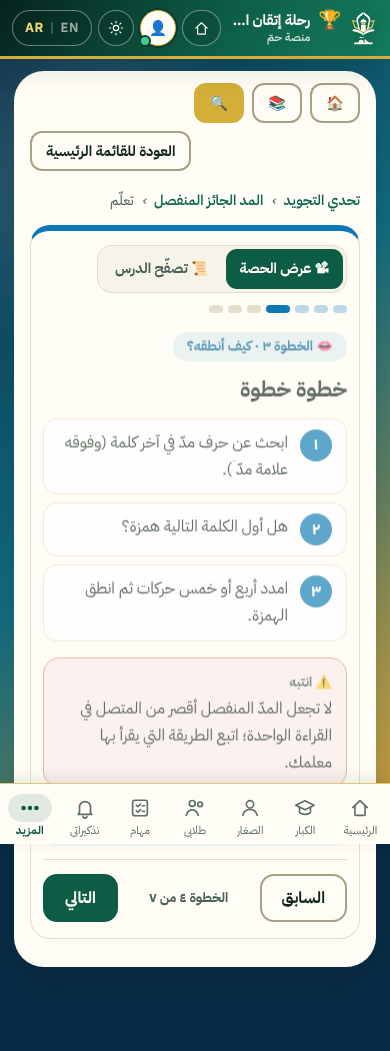
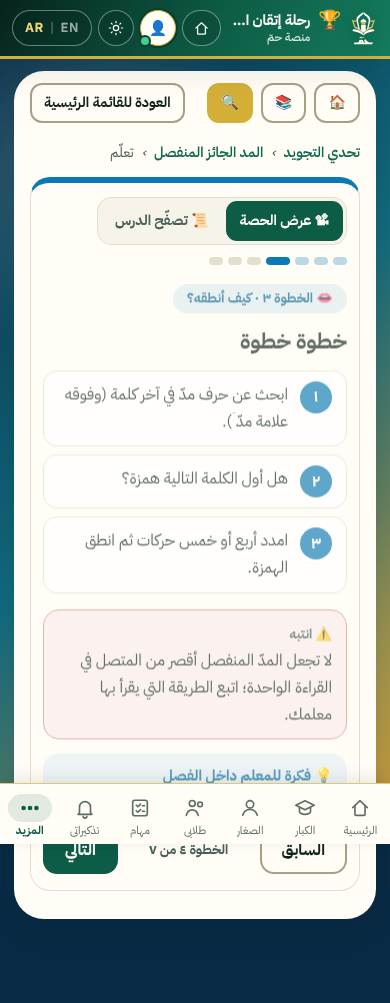
ركن التجويد: رئيسية بالمستويات السبعة وزر «ابدأ الشرح» (الإصدار 1.0.73)
- سبعة مستويات بالترتيب: مصحفي (٣ محطات) ← القلقلة ← الغنّة ← التفخيم والترقيق ← الحرف الساكن
  ← المخارج والصفات ← المدّ والوقف؛ يظهر مستوى واحد في كل مرة.
- بطاقة «الدرس التالي» بزر «ابدأ الشرح» يفتح الدرس المصوّر مباشرة، ولكل درس زرّا «الشرح» و«تدريب».
- تحدي المحطة عام لأي محطة. فحوص verify وe2e محدّثة.

Claude-Session: https://claude.ai/code/session_011ARApJWwWujCV3ZFD8GbRF

Changed region(s): [[0.0, 0.0, 1.0, 0.6181], [0.0, 0.6181, 1.0, 0.9272], [0.1538, 0.3709, 0.4923, 0.4327]]

diff --git a/tajweed/challenge/js/app.js b/tajweed/challenge/js/app.js
@@ -1,6 +1,6 @@
 // js/app.js — الموجه والشاشات: الرئيسية، الحكم، الدرس، اللعب، النتيجة، المصادر.
 import { POOL } from '../data/pool.js';
-import { STAGES, RULES, META, SOURCES, stageOf } from '../data/rules.js';
+import { STAGES, RULES, META, SOURCES, stageOf, GROUPS } from '../data/rules.js';
 import { MUSHAF, LESSON_IMG, signImg } from '../data/mushaf.js';
 import { buildMushafLevel, buildMushafStage, mushafMixedQuestion } from './mushaf-engine.js';
 import { initMushaf } from './mushaf.js';
@@ -50,60 +50,80 @@ const crumb = (items) => `<nav class="crumb" aria-label="breadcrumb">${items.map
 const stageStyle = (st) => `style="--hue:var(--h-${st.hue})"`;
 
 // ───────── الرئيسية ─────────
+// المستوى المعروض في الرئيسية (يُحفظ على الجهاز؛ الافتراضي: مستوى الخطوة التالية)
+const LV_KEY = 'tjc.level';
+let homeLevel = (() => { try { return localStorage.getItem(LV_KEY) || ''; } catch { return ''; } })();
+const setHomeLevel = (id) => { homeLevel = id; try { localStorage.setItem(LV_KEY, id); } catch { /* لا تخزين */ } };
+const lessonPlate = (id) => (KNOW[id] ? `<span class="lr-plate">${art(KNOW[id].art)}</span>` : MUSHAF[id] ? `<span class="lr-plate"><img src="${esc(signImg(LESSON_IMG[id]))}" alt=""></span>` : `<span class="lr-plate"><b class="quran-text">${esc(tx(META[id].short))}</b></span>`);
+
 function renderHome() {
   const tot = store.totals(ALL_RULES);
   const pct = Math.round((tot.got / tot.max) * 100);
   const nxt = nextStep();
-  const started = tot.got > 0 || ALL_RULES.some((id) => store.getRule(id).learned);
   const R = 52, C = 2 * Math.PI * R;
-  const stagesHTML = STAGES.map((st, si) => {
+  const nxtStage = nxt.rule ? stageOf(nxt.rule) : null;
+  if (!GROUPS.some((g) => g.id === homeLevel)) homeLevel = nxtStage ? nxtStage.level : GROUPS[0].id;
+  const groupRules = (g) => STAGES.filter((st) => st.level === g.id).flatMap((st) => st.rules);
+  // شريط المستويات
+  const strip = GROUPS.map((g, gi) => {
+    const ids = groupRules(g); const done = ids.filter((id) => store.getRule(id).lv[3] >= 1).length;
+    const here = nxtStage && nxtStage.level === g.id;
+    return `<button type="button" class="lv-btn${g.id === homeLevel ? ' on' : ''}" data-level="${g.id}" aria-pressed="${g.id === homeLevel}">
+      ${here ? `<em class="lv-here">${t('path_here')}</em>` : ''}<span class="lv-ico" aria-hidden="true">${g.icon}</span><small>${t('lv_n', { n: num(gi + 1) })}</small><b>${esc(tx(g.name))}</b>
+      <span class="lv-prog"><i style="width:${Math.round((done / ids.length) * 100)}%"></i></span><small>${num(done)}/${num(ids.length)}</small></button>`;
+  }).join('');
+  // محطات المستوى المختار
+  const stagesHTML = STAGES.filter((st) => st.level === homeLevel).map((st) => {
+    const si = STAGES.indexOf(st);
     const got = st.rules.reduce((a, id) => a + ruleProgress(id), 0), max = st.rules.length * 9;
     const mastered = st.rules.filter((id) => store.getRule(id).lv[3] >= 1).length;
     const unlockedChallenge = isReview() || st.rules.some((id) => store.getRule(id).lv[1] >= 1);
-    const stStars = store.getStageStars(st.id);
+    const rows = st.rules.map((id) => {
+      const r = store.getRule(id); const isNext = nxt.rule === id;
+      return `<li class="lrow${isNext ? ' is-next' : ''}">
+        <a class="lr-main" href="#/learn/${id}">${lessonPlate(id)}<span class="lr-tx"><b>${esc(ruleName(id))}</b><small>${esc(tx(META[id].tagline))}</small></span>${isNext ? `<em class="lr-next">${t('lr_next')}</em>` : ''}${starsHTML(Math.max(r.lv[1] || 0, r.lv[2] || 0, r.lv[3] || 0))}</a>
+        <span class="lr-acts"><a class="btn ${isNext ? 'primary' : 'ghost'} sm" href="#/learn/${id}">📖 ${t('lr_learn')}</a><a class="btn ghost sm" href="#/rule/${id}" title="${esc(t('lr_train'))}">🎮 <span>${t('lr_train')}</span></a></span></li>`;
+    }).join('');
     return `
-    <article class="stage${st.id === 'mushaf' ? ' mushaf-stage' : ''}" ${stageStyle(st)}>
+    <article class="stage" ${stageStyle(st)}>
       <header class="stage-head">
         <span class="stage-ico" aria-hidden="true">${STAGE_ICONS[st.icon]}</span>
         <div class="stage-title"><small>${t('stage_n', { n: num(si + 1) })}</small><h3>${esc(tx(st.name))}</h3><p>${esc(tx(st.blurb))}</p></div>
         <div class="stage-prog" aria-label="${got}/${max}"><b>${num(mastered)}/${num(st.rules.length)}</b><small>${t('home_mastered')}</small><div class="pbar"><i style="width:${Math.round((got / max) * 100)}%"></i></div></div>
       </header>
-      ${st.id === 'mushaf' ? `<ul class="tiles">${st.rules.map((id) => { const r = store.getRule(id); return `<li><a class="tile" href="#/rule/${id}"><span class="plate">${KNOW[id] ? `<span class="plate-art">${art(KNOW[id].art)}</span>` : `<img class="plate-img" src="${esc(signImg(LESSON_IMG[id]))}" alt="">`}</span><b>${esc(ruleName(id))}</b>${r.learned ? '' : '<em class="new">●</em>'}${starsHTML(Math.max(r.lv[1] || 0, r.lv[2] || 0, r.lv[3] || 0))}</a></li>`; }).join('')}</ul>` : `<ul class="rule-list">${st.rules.map((id) => {
-        const r = store.getRule(id);
-        return `<li><a class="rule-row" href="#/rule/${id}"><span class="rr-main"><b>${esc(ruleName(id))}</b><small class="quran-text rr-short">${esc(tx(META[id].short))}</small></span><span class="rr-state">${r.learned ? '' : '<em class="new">●</em>'}${starsHTML(Math.max(...[r.lv[1] || 0, r.lv[2] || 0, r.lv[3] || 0]))}</span></a></li>`;
-      }).join('')}</ul>`}
+      <ul class="lrows">${rows}</ul>
       <footer class="stage-foot">
-        ${st.id === 'mushaf' ? `<a class="btn ghost" href="#/explorer">🔎 ${t('mk_explorer')}</a>` : ''}
         <a class="btn ghost" href="#/review/${st.id}">🗺 ${t('rv_btn')}</a>
-        <button type="button" class="btn ${unlockedChallenge ? 'accent' : 'disabled'}" data-stage="${st.id}" ${unlockedChallenge ? '' : 'disabled'}>🏁 ${t('stage_challenge')} ${starsHTML(stStars)}</button>
-        ${unlockedChallenge ? '' : `<small>${t('stage_challenge_locked')}</small>`}
+        <button type="button" class="btn ${unlockedChallenge ? 'accent' : 'disabled'}" data-stage="${st.id}" ${unlockedChallenge ? '' : 'disabled'}>🏁 ${t('stage_challenge')} ${starsHTML(store.getStageStars(st.id))}</button>
+        ${st.level === 'l_mushaf' && st.id === 'mushaf_signs' ? `<a class="btn ghost" href="#/explorer">🔎 ${t('mk_explorer')}</a>` : ''}
       </footer>
     </article>`;
   }).join('');
+  const nr = nxt.rule; const learnHash = nr ? `#/learn/${nr}` : '#/mixed'; const trainHash = nr ? (nxt.hash.startsWith('#/play') ? nxt.hash : `#/rule/${nr}`) : '#/mixed';
   shell(`
-    <section class="hero">
+    <section class="hero home-next">
       <div class="hero-text">
         <h1>${student ? t('home_hello_name', { name: esc(student.name) }) : t('home_hello')}</h1>
-        <p class="lead">${t('home_lead', { n: num(STAGES.length) })}</p>
+        ${nr ? `<div class="next-card" ${stageStyle(nxtStage)}>${lessonPlate(nr)}<div><small>${t('next_k')} · ${esc(tx(nxtStage.name))}</small><b>${esc(ruleName(nr))}</b><small class="muted">${esc(nxt.label)}</small></div></div>` : `<p class="lead">${t('home_mixed_desc')}</p>`}
         <div class="hero-cta">
-          <a class="btn primary big" href="${nxt.hash}">${started ? t('home_continue') : t('home_start')} <span class="arr" aria-hidden="true"></span></a>
-          ${nxt.rule ? `<small class="muted">${esc(ruleName(nxt.rule))} · ${esc(nxt.label)}</small>` : ''}
+          <a class="btn primary big" href="${learnHash}">📖 ${nr ? t('lr_start_learn') : t('home_mixed')} <span class="arr" aria-hidden="true"></span></a>
+          ${nr ? `<a class="btn ghost" href="${trainHash}">🎮 ${t('lr_train')}</a>` : ''}
         </div>
       </div>
       <div class="hero-ring" role="img" aria-label="${t('home_progress')} ${pct}%">
         <svg viewBox="0 0 130 130"><circle class="ring-bg" cx="65" cy="65" r="${R}"/><circle class="ring-fg" cx="65" cy="65" r="${R}" stroke-dasharray="${C}" stroke-dashoffset="${C * (1 - pct / 100)}"/></svg>
-        <div class="ring-txt"><b>${num(tot.got)}</b><small>${t('home_progress')} ★</small><small>${num(tot.mastered)} / ${num(ALL_RULES.length)} ${t('home_mastered')}</small></div>
+        <div class="ring-txt"><b>${num(tot.mastered)}/${num(ALL_RULES.length)}</b><small>${t('home_mastered')}</small><small>${num(tot.got)} ★</small></div>
       </div>
     </section>
     ${isReview() ? `<p class="review-banner">${t('review_mode_on')}</p>` : ''}
-    <h2 class="sec-title">${t('path_title')}</h2>
-    <div class="stages">${stagesHTML}</div>
+    <nav class="lv-strip" aria-label="${esc(t('path_title'))}">${strip}</nav>
+    <div class="stages lv-stages">${stagesHTML}</div>
     <section class="mixed">
       <div><h3>🎯 ${t('home_mixed')}</h3><p>${t('home_mixed_desc')}</p></div>
       <a class="btn accent" href="#/mixed">${t('start')} ${starsHTML(store.getMixed())}</a>
-    </section>
-    <p class="muted center small">${t('data_version', { n: num(Object.keys(POOL).length) })}</p>`);
+    </section>`);
   root.querySelectorAll('[data-stage]').forEach((b) => b.addEventListener('click', () => go(`#/stage/${b.dataset.stage}`)));
+  root.querySelectorAll('[data-level]').forEach((b) => b.addEventListener('click', () => { setHomeLevel(b.dataset.level); const y = window.scrollY; renderHome(); window.scrollTo({ top: y }); }));
 }
 
 // ───────── صفحة الحكم ─────────
@@ -262,8 +282,10 @@ function playRun(kind, ruleId, level, stageId) {
   else if (kind === 'stage') {
     // تحدي المحطة: أحكام المحطة (من الكاشف) + أسئلة دروس المعرفة فيها
     const sObj = STAGES.find((s) => s.id === stageId); const rr = rng(Date.now()); const know = sObj.rules.filter((id) => KNOW[id]); const hasRules = sObj.rules.some((id) => RULES[id]);
-    const base = stageId === 'mushaf' ? buildMushafStage() : hasRules ? buildStageChallenge(stageId) : [];
-    const extra = []; const want = Math.max(know.length ? 2 : 0, 8 - base.length); for (let k = 0; know.length && k < want; k++) extra.push(knowQuestion(know[k % know.length], rr));
+    const mush = sObj.rules.filter((id) => MUSHAF[id]);
+    const base = hasRules ? buildStageChallenge(stageId) : [];
+    const side = [...mush, ...know]; const extra = []; const want = Math.max(side.length ? Math.min(8, side.length * 2) : 0, 8 - base.length);
+    for (let k = 0; side.length && k < want; k++) { const id = side[k % side.length]; extra.push(MUSHAF[id] ? mushafMixedQuestion(id, rr) : knowQuestion(id, rr)); }
     qs = shuffle([...base, ...extra], rr).slice(0, 8); head = `<b>${esc(tx(sObj.name))}</b> · ${t('stage_challenge')}`;
   }
   else { const learned = ALL_RULES.filter((id) => store.getRule(id).learned); const pool = learned.length >= 2 ? learned : ALL_RULES; const tajweed = pool.filter((id) => RULES[id]); const mush = pool.filter((id) => MUSHAF[id]); const know = pool.filter((id) => KNOW[id]); const rr = rng(Date.now());

diff --git a/tajweed/challenge/data/rules.js b/tajweed/challenge/data/rules.js
@@ -78,23 +78,37 @@ export const L_SHAMSI = ['ط', 'ث', 'ص', 'ر', 'ت', 'ض', 'ذ', 'ن', 'د', '
 
 // ترتيب المراحل المقترح: من الأبسط (صوتان) ← ثلاثة أحكام للميم ← النون (٥) ← لام «ال» ← المدود
 export const STAGES = [
-  { id: 'mushaf', hue: 'teal', icon: 'book', name: T('تعرّف على مصحفك', 'Know Your Mushaf'), blurb: T('أرقام الآيات، الجزء والحزب، الحركات والتنوين، الألف والهمزة، علامات الوقف والسكون والمدّ والسجدة', 'Ayah numbers, juz and hizb, vowel marks and tanween, alif and hamza, and the signs of stopping, sukun, madd and sajdah'), rules: ['mushaf_adab', 'mushaf_ayah_number', 'mushaf_surahs', 'mushaf_juz_hizb', 'mushaf_find', 'mushaf_harakat', 'mushaf_hamza', 'mushaf_waqf', 'mushaf_silent_sukun', 'mushaf_madd_letters', 'mushaf_special', 'mushaf_sin_saad', 'mushaf_sajda'] },
-  { id: 'makharij', hue: 'sky', icon: 'mouth', name: T('المخارج والصفات', 'Articulation & Qualities'), blurb: T('من أين يخرج كل حرف؟ وما الحروف الهامسة والثقيلة والنطّاطة؟', 'Where does each letter come from? Which letters whisper, which are heavy, which bounce?'), rules: ['know_makharij', 'know_sifat'] },
-  { id: 'sounds', hue: 'violet', icon: 'wave', name: T('الغنّة والقلقلة', 'Ghunna & Qalqalah'), blurb: T('صوتان يميّزان تلاوتك: رنين الأنف وقفزة الحرف', 'Two sounds that colour your recitation: the nasal hum and the letter’s bounce'), rules: ['ghunna', 'qalqalah'] },
-  { id: 'meem', hue: 'rose', icon: 'lips', name: T('الميم الساكنة', 'Meem Sakinah'), blurb: T('ثلاثة أحكام للميم الساكنة (مْ)', 'Three rulings for the silent meem (مْ)'), rules: ['meem_ikhfa', 'meem_idgham', 'meem_izhar'] },
-  { id: 'noon', hue: 'emerald', icon: 'noon', name: T('النون الساكنة والتنوين', 'Noon Sakinah & Tanween'), blurb: T('خمس صور: إظهار، إدغام بغنة، إدغام بلا غنة، إقلاب، إخفاء', 'Five forms: izhar, idgham with/without ghunna, iqlab, ikhfa'), rules: ['noon_izhar', 'noon_idgham_ghunna', 'noon_idgham_no_ghunna', 'noon_iqlab', 'noon_ikhfa'] },
-  { id: 'lam', hue: 'amber', icon: 'sun', name: T('لام «أل»', 'The Lam of “Al”'), blurb: T('قمرية تظهر وشمسية تختفي', 'Moon letters show, sun letters hide'), rules: ['lam_qamari', 'lam_shamsi'] },
-  { id: 'idgham', hue: 'rose', icon: 'merge', name: T('المثلان والمتجانسان والمتقاربان', 'Identical, Related & Neighbouring Letters'), blurb: T('حرفان يلتقيان فيصيران حرفًا مشدّدًا واحدًا', 'Two letters meet and become one doubled letter'), rules: ['mithlain', 'mutajanisain', 'mutaqaribain'] },
-  { id: 'tafkhim', hue: 'amber', icon: 'weight', name: T('التفخيم والترقيق', 'Heavy & Light Letters'), blurb: T('الراء ولام لفظ الجلالة: متى تكون سمينة ومتى نحيفة؟', 'The raa and the lam of “Allah”: when heavy, when light?'), rules: ['ra_tafkhim', 'ra_tarqiq', 'lam_jalala_tafkhim', 'lam_jalala_tarqiq'] },
-  { id: 'madd', hue: 'sky', icon: 'madd', name: T('المدود', 'Maddat (Elongation)'), blurb: T('المد الطبيعي والمتصل والمنفصل', 'Natural, connected and separated elongation'), rules: ['madd_tabii', 'madd_muttasil', 'madd_munfasil'] },
-  { id: 'madd2', hue: 'teal', icon: 'madd', name: T('مدود أخرى', 'More Maddat'), blurb: T('العارض للسكون واللين والبدل واللازم', 'ʿArid, leen, badal and lazim'), rules: ['madd_aridh', 'madd_leen', 'madd_badal', 'madd_lazim'] },
-  { id: 'waqf', hue: 'violet', icon: 'stop', name: T('الوقف على أواخر الكلمات', 'Stopping at Word Ends'), blurb: T('كيف ننطق آخر الكلمة إذا وقفنا عليها؟', 'How do we say the end of a word when we stop on it?'), rules: ['know_waqf'] }
+  { id: 'mushaf', level: 'l_mushaf', hue: 'teal', icon: 'book', name: T('أتعرّف على مصحفي', 'Meet My Mushaf'), blurb: T('الآداب، رقم الآية، السور، الأجزاء، كيف أجد الآية، والسجدة', 'Manners, ayah numbers, surahs, juz, finding an ayah, and sajdah'), rules: ['mushaf_adab', 'mushaf_ayah_number', 'mushaf_surahs', 'mushaf_juz_hizb', 'mushaf_find', 'mushaf_sajda'] },
+  { id: 'mushaf_marks', level: 'l_mushaf', hue: 'sky', icon: 'book', name: T('حركات الحروف وعلاماتها', 'Vowels and Letter Marks'), blurb: T('الحركات والتنوين، الهمزة، السكون والحروف الصامتة، والحروف الصغيرة', 'Vowels and tanween, hamza, sukun and silent letters, small letters'), rules: ['mushaf_harakat', 'mushaf_hamza', 'mushaf_silent_sukun', 'mushaf_madd_letters'] },
+  { id: 'mushaf_signs', level: 'l_mushaf', hue: 'violet', icon: 'stop', name: T('علامات الوقف والعلامات النادرة', 'Stop Signs and Rare Marks'), blurb: T('علامات الوقف، السين مكان الصاد، وعلامتان نادرتان', 'Stop signs, seen in place of saad, and two rare marks'), rules: ['mushaf_waqf', 'mushaf_sin_saad', 'mushaf_special'] },
+  { id: 'qalqalah_s', level: 'l_qalqalah', hue: 'sky', icon: 'wave', name: T('القلقلة', 'Qalqalah'), blurb: T('الحروف النطّاطة «قطب جد»', 'The bouncing letters «قطب جد»'), rules: ['qalqalah'] },
+  { id: 'ghunna_s', level: 'l_ghunna', hue: 'violet', icon: 'wave', name: T('الغنّة', 'Ghunna'), blurb: T('النون والميم المشدّدتان: رنين من الأنف', 'Doubled noon and meem: a hum from the nose'), rules: ['ghunna'] },
+  { id: 'tafkhim', level: 'l_tafkhim', hue: 'amber', icon: 'weight', name: T('التفخيم والترقيق', 'Heavy & Light Letters'), blurb: T('الراء ولام لفظ الجلالة: متى تكون سمينة ومتى نحيفة؟', 'The raa and the lam of “Allah”: when heavy, when light?'), rules: ['ra_tafkhim', 'ra_tarqiq', 'lam_jalala_tafkhim', 'lam_jalala_tarqiq'] },
+  { id: 'meem', level: 'l_sakin', hue: 'rose', icon: 'lips', name: T('الميم الساكنة', 'Meem Sakinah'), blurb: T('ثلاثة أحكام للميم الساكنة (مْ)', 'Three rulings for the silent meem (مْ)'), rules: ['meem_ikhfa', 'meem_idgham', 'meem_izhar'] },
+  { id: 'noon', level: 'l_sakin', hue: 'emerald', icon: 'noon', name: T('النون الساكنة والتنوين', 'Noon Sakinah & Tanween'), blurb: T('خمس صور: إظهار، إدغام بغنة، إدغام بلا غنة، إقلاب، إخفاء', 'Five forms: izhar, idgham with/without ghunna, iqlab, ikhfa'), rules: ['noon_izhar', 'noon_idgham_ghunna', 'noon_idgham_no_ghunna', 'noon_iqlab', 'noon_ikhfa'] },
+  { id: 'lam', level: 'l_sakin', hue: 'amber', icon: 'sun', name: T('لام «أل»', 'The Lam of “Al”'), blurb: T('قمرية تظهر وشمسية تختفي', 'Moon letters show, sun letters hide'), rules: ['lam_qamari', 'lam_shamsi'] },
+  { id: 'idgham', level: 'l_sakin', hue: 'rose', icon: 'merge', name: T('المثلان والمتجانسان والمتقاربان', 'Identical, Related & Neighbouring Letters'), blurb: T('حرفان يلتقيان فيصيران حرفًا مشدّدًا واحدًا', 'Two letters meet and become one doubled letter'), rules: ['mithlain', 'mutajanisain', 'mutaqaribain'] },
+  { id: 'makharij', level: 'l_makharij', hue: 'sky', icon: 'mouth', name: T('المخارج والصفات', 'Articulation & Qualities'), blurb: T('من أين يخرج كل حرف؟ وما الحروف الهامسة والثقيلة والنطّاطة؟', 'Where does each letter come from? Which letters whisper, which are heavy, which bounce?'), rules: ['know_makharij', 'know_sifat'] },
+  { id: 'madd', level: 'l_madd', hue: 'sky', icon: 'madd', name: T('المدود', 'Maddat (Elongation)'), blurb: T('المد الطبيعي والمتصل والمنفصل', 'Natural, connected and separated elongation'), rules: ['madd_tabii', 'madd_muttasil', 'madd_munfasil'] },
+  { id: 'madd2', level: 'l_madd', hue: 'teal', icon: 'madd', name: T('مدود أخرى', 'More Maddat'), blurb: T('العارض للسكون واللين والبدل واللازم', 'ʿArid, leen, badal and lazim'), rules: ['madd_aridh', 'madd_leen', 'madd_badal', 'madd_lazim'] },
+  { id: 'waqf', level: 'l_madd', hue: 'violet', icon: 'stop', name: T('الوقف على أواخر الكلمات', 'Stopping at Word Ends'), blurb: T('كيف ننطق آخر الكلمة إذا وقفنا عليها؟', 'How do we say the end of a word when we stop on it?'), rules: ['know_waqf'] }
 ];
+// المستويات: تجمع المحطات بالترتيب الذي يُدرَّس به (الرئيسية تعرض مستوى واحدًا في كل مرة)
+export const GROUPS = [
+  { id: 'l_mushaf', icon: '📖', name: T('مصحفي', 'My Mushaf') },
+  { id: 'l_qalqalah', icon: '🏀', name: T('القلقلة', 'Qalqalah') },
+  { id: 'l_ghunna', icon: '🐝', name: T('الغنّة', 'Ghunna') },
+  { id: 'l_tafkhim', icon: '🎈', name: T('التفخيم والترقيق', 'Heavy & Light') },
+  { id: 'l_sakin', icon: '🔗', name: T('الحرف الساكن', 'The Silent Letter') },
+  { id: 'l_makharij', icon: '👄', name: T('المخارج والصفات', 'Articulation & Qualities') },
+  { id: 'l_madd', icon: '📏', name: T('المدّ والوقف', 'Madd & Stopping') }
+];
+export const groupOf = (stageId) => GROUPS.find((g) => g.id === STAGES.find((s) => s.id === stageId)?.level);
 
 export const RULES = {
   // ───────────────────────── المرحلة ١: أصوات خاصة ─────────────────────────
   ghunna: {
-    id: 'ghunna', stage: 'sounds', viz: 'ghunna',
+    id: 'ghunna', stage: 'ghunna_s', viz: 'ghunna',
     name: T('الغنّة (النون والميم المشدّدتان)', 'Ghunna (doubled Noon & Meem)'),
     short: T('نّ  مّ', 'نّ  مّ'),
     tagline: T('رنين لطيف في الأنف', 'A gentle hum in the nose'),
@@ -117,7 +131,7 @@ export const RULES = {
   },
 
   qalqalah: {
-    id: 'qalqalah', stage: 'sounds', viz: 'qalqalah',
+    id: 'qalqalah', stage: 'qalqalah_s', viz: 'qalqalah',
     name: T('القلقلة', 'Qalqalah (the bounce)'),
     short: T('قطب جد', 'قطب جد'),
     tagline: T('نبرة ترتدّ كالكرة', 'A bounce like a ball'),

diff --git a/tajweed/challenge/css/challenge.css b/tajweed/challenge/css/challenge.css
@@ -295,3 +295,32 @@ button.rosette { cursor: pointer; width: 46px; height: 46px; min-width: 0; paddi
 .plate-art .art { max-height: 64px; }
 .rh-viz.know-art .art { max-height: 220px; }
 .opt.opt-glyph b { font-size: 1.9rem; }
+
+/* ── الرئيسية: الدرس التالي + شريط المستويات + صفوف الدروس (المعلم يصل إلى الشرح بضغطة) ── */
+.next-card { display: flex; align-items: center; gap: 12px; background: var(--surface-3); border: 1.5px solid var(--c-mid); border-inline-start: 6px solid var(--c); border-radius: 18px; padding: 10px 14px; margin: 6px 0 14px; max-width: 520px; }
+.next-card > div { display: flex; flex-direction: column; min-width: 0; } .next-card b { font-size: 1.35rem; line-height: 1.35; } .next-card small { color: var(--c-ink); font-weight: 700; font-size: .82rem; }
+.next-card small.muted { color: var(--ink-soft); font-weight: 500; }
+.lr-plate { width: 52px; height: 52px; border-radius: 14px; background: var(--c-soft); border: 1.5px solid var(--c-mid); display: grid; place-items: center; overflow: hidden; flex: none; }
+.lr-plate img { max-width: 86%; max-height: 86%; object-fit: contain; mix-blend-mode: multiply; } .tjc[data-theme="dark"] .lr-plate img { mix-blend-mode: normal; filter: invert(.88) hue-rotate(180deg); }
+.lr-plate .art { width: 100%; height: auto; } .lr-plate b.quran-text { font-size: 1rem; line-height: 1.2 !important; color: var(--c-ink); text-align: center; padding: 0 2px; }
+.lv-strip { display: flex; gap: 8px; overflow-x: auto; padding: 14px 2px 8px; margin: 4px 0 12px; scroll-snap-type: x mandatory; }
+.lv-btn { position: relative; flex: 1 0 118px; scroll-snap-align: start; display: flex; flex-direction: column; align-items: center; gap: 2px; text-align: center; background: var(--surface-2); border: 2px solid var(--line); border-radius: 18px; padding: 10px 8px; min-height: 120px; color: var(--ink); }
+.lv-btn:hover { border-color: var(--line-strong); }
+.lv-btn.on { border-color: var(--emerald); background: color-mix(in srgb, var(--emerald) 10%, var(--surface-2)); box-shadow: 0 0 0 3px color-mix(in srgb, var(--emerald) 22%, transparent); }
+.lv-btn b { font-size: .95rem; line-height: 1.3; } .lv-btn small { color: var(--ink-soft); font-size: .74rem; } .lv-ico { font-size: 1.6rem; line-height: 1.2; }
+.lv-prog { width: 70%; height: 6px; border-radius: 99px; background: var(--line); overflow: hidden; margin-top: 4px; } .lv-prog i { display: block; height: 100%; background: var(--emerald); }
+.lv-here { position: absolute; top: -11px; font-style: normal; background: var(--gold); color: var(--on-gold); font-size: .68rem; font-weight: 800; border-radius: 99px; padding: 1px 10px; white-space: nowrap; }
+.lv-stages { grid-template-columns: 1fr !important; }
+.lrows { list-style: none; margin: 0; padding: 0; display: flex; flex-direction: column; gap: 8px; }
+.lrow { display: flex; align-items: center; gap: 10px; background: var(--surface-2); border: 1.5px solid var(--line); border-radius: 16px; padding: 6px 10px; }
+.lrow.is-next { border-color: var(--gold); box-shadow: 0 0 0 3px color-mix(in srgb, var(--gold) 25%, transparent); }
+.lr-main { flex: 1; min-width: 0; display: flex; align-items: center; gap: 12px; text-decoration: none; color: var(--ink); min-height: var(--tap); }
+.lr-tx { flex: 1; min-width: 0; display: flex; flex-direction: column; } .lr-tx b { font-size: 1.02rem; } .lr-tx small { color: var(--ink-soft); font-size: .82rem; }
+.lr-next { font-style: normal; background: var(--gold); color: var(--on-gold); font-size: .72rem; font-weight: 800; border-radius: 99px; padding: 1px 10px; }
+.lr-acts { display: flex; gap: 6px; flex: none; }
+.btn.sm { min-height: 40px; padding: 6px 12px; font-size: .88rem; }
+@media (max-width: 640px) {
+  .lrow { flex-wrap: wrap; } .lr-acts { width: 100%; } .lr-acts .btn { flex: 1; }
+  .lv-btn { flex-basis: 104px; min-height: 112px; }
+  .next-card b { font-size: 1.15rem; }
+}

diff --git a/core/version.js b/core/version.js
@@ -8,13 +8,21 @@
 // 🌟 ارفع هذا الرقم مع كل تحديث فعلي تنزّله، وضيف عنصر جديد أول مصفوفة CHANGELOG تحته
 // (الأحدث دائماً في الأعلى). النظام تلقائياً هيجمع كل الإصدارات اللي فاتت المعلم منذ آخر
 // مرة فتح فيها المنصة على هذا الجهاز، مش بس آخر إصدار. 🌟
-export const APP_VERSION = '1.0.72';
+export const APP_VERSION = '1.0.73';
 
 // كل عنصر تغيير: type من ('new' | 'improved' | 'fixed') + نص ثنائي اللغة {ar, en}.
 // ⚠ افتراض صريح: هذه ليست مفاتيح i18n.js عمداً — لأنها محتوى تاريخي متراكم يكبر مع كل
 // إصدار (لو حُطّت في i18n.js هتتضخّم قائمة الترجمة للأبد بمفاتيح قديمة لن تُستخدم تاني).
 // النصوص الثابتة فقط (عنوان الشاشة، زر الإغلاق، تسميات التصنيفات) موجودة في i18n.js كالمعتاد.
 export const CHANGELOG = [
+    {
+        version: '1.0.73',
+        date: '2026-11-02',
+        items: [
+            { type: 'improved', text: { ar: 'رئيسية ركن التجويد أسهل وأسرع: بطاقة «الدرس التالي» بزر «ابدأ الشرح»، وسبعة مستويات بالترتيب (مصحفي ← القلقلة ← الغنّة ← التفخيم والترقيق ← الحرف الساكن ← المخارج والصفات ← المدّ والوقف) يظهر منها مستوى واحد في كل مرة، ولكل درس زرّا «الشرح» و«تدريب» مباشرة.', en: 'The Tajweed corner home is simpler and faster: a “next lesson” card with a “Start the lesson” button, and seven levels in teaching order (My Mushaf → Qalqalah → Ghunna → Heavy & Light → The Silent Letter → Articulation & Qualities → Madd & Stopping), one level shown at a time, with direct “Lesson” and “Practice” buttons for every lesson.' } },
+            { type: 'improved', text: { ar: 'قُسّم «تعرّف على مصحفك» إلى ثلاث محطات: «أتعرّف على مصحفي»، و«حركات الحروف وعلاماتها»، و«علامات الوقف والعلامات النادرة»، وصارت القلقلة والغنّة محطتين مستقلتين.', en: '“Know Your Mushaf” is split into three stops — “Meet My Mushaf”, “Vowels and Letter Marks”, “Stop Signs and Rare Marks” — and qalqalah and ghunna are now separate stops.' } }
+        ]
+    },
     {
         version: '1.0.72',
         date: '2026-11-02',

diff --git a/tajweed/challenge/js/i18n.js b/tajweed/challenge/js/i18n.js
@@ -210,6 +210,13 @@ const D = {
   ws_circle: { ar: 'ضع دائرة حول موضع «{rule}» في الآية:', en: 'Circle where “{rule}” happens in this ayah:' },
   ws_write: { ar: 'اكتب مثالًا رأيته في مصحفك:', en: 'Write an example you found in your mushaf:' },
   ws_foot: { ar: 'ركن التجويد — منصة حمٓ', en: 'Tajweed corner — Ham platform' },
+  path_here: { ar: 'أنت هنا', en: 'You are here' },
+  lv_n: { ar: 'المستوى {n}', en: 'Level {n}' },
+  next_k: { ar: 'الدرس التالي', en: 'Next lesson' },
+  lr_next: { ar: 'التالي', en: 'Next' },
+  lr_learn: { ar: 'الشرح', en: 'Lesson' },
+  lr_train: { ar: 'تدريب', en: 'Practice' },
+  lr_start_learn: { ar: 'ابدأ الشرح', en: 'Start the lesson' },
   know_lvl_d: { ar: 'أسئلة متنوّعة من الدرس', en: 'Mixed questions from the lesson' },
   stage_done: { ar: 'اكتمل', en: 'Done' },
   none_yet: { ar: 'لم تبدأ بعد', en: 'Not started yet' }

diff --git a/service-worker.js b/service-worker.js
@@ -1,5 +1,5 @@
 const MUSHAF_CACHE = 'dar-ham-mushaf-v1'; // صور صفحات المصحف (تُخزَّن عند أول عرض فقط، لا تحميل مسبق للـ604)
-const CACHE_NAME = 'dar-ham-quran-v61'; // 🌟 رُفع من v3 إلى v4 مع دمج نظام الواجبات الجديد (2026-09-25) — أي تعديل جوهري لاحق في الملفات المخزّنة يستوجب رفعه مرة أخرى
+const CACHE_NAME = 'dar-ham-quran-v62'; // 🌟 رُفع من v3 إلى v4 مع دمج نظام الواجبات الجديد (2026-09-25) — أي تعديل جوهري لاحق في الملفات المخزّنة يستوجب رفعه مرة أخرى
 
 // عند تثبيت التطبيق لأول مرة
 self.addEventListener('install', (event) => {

diff --git a/PROJECT_STATE.md b/PROJECT_STATE.md
@@ -14,6 +14,7 @@
 ## 2) آخر الأعمال المنفذة
 | التاريخ | العمل |
 |---|---|
+| 2026-11-02 | **ركن التجويد: رئيسية بالمستويات** (`APP_VERSION 1.0.73` · `CACHE_NAME v62`). بطلب المعلم (هو من يشغّل الركن للأطفال، ومسار واحد للجميع): `GROUPS` في `data/rules.js` سبعة مستويات بالترتيب: مصحفي (٣ محطات: `mushaf` «أتعرّف على مصحفي» · `mushaf_marks` · `mushaf_signs`) ← القلقلة (`qalqalah_s`) ← الغنّة (`ghunna_s`) ← التفخيم والترقيق ← الحرف الساكن (الميم، النون، لام أل، المثلان…) ← المخارج والصفات ← المدّ والوقف. الرئيسية (`renderHome` في `js/app.js`): بطاقة «الدرس التالي» بزر «ابدأ الشرح» (يفتح الدرس المصوّر مباشرة) و«تدريب»، ثم شريط المستويات (المستوى المختار محفوظ في `tjc.level`)، ثم محطات المستوى وحده بصفوف دروس لكل منها «📖 الشرح» و«🎮 تدريب». تحدي المحطة صار عامًا لأي محطة (أحكام/مصحف/معرفة). لا زر للمعلم (بطلبه). الفحوص: verify (المستويات متتالية ومعرّفة) وe2e (كل مستوى وعدد صفوفه وزر «ابدأ الشرح»). |
 | 2026-11-02 | **ركن التجويد: ٤٢ درسًا في ١١ محطة** (`APP_VERSION 1.0.72` · `CACHE_NAME v61`). (1) **١١ حكمًا جديدًا بألعاب كاملة** يكشفها `tools/lib/detect.mjs`: المد العارض واللين والبدل واللازم، والمثلان والمتجانسان والمتقاربان (كلها بمصدرين متفقين مع جدول ghunna)، وتفخيم/ترقيق الراء المتحركة ولام لفظ الجلالة (أحكام من الحركة وحدها: `SINGLE_SOURCE` في `data/rules.js`؛ تُستبعد الراء عند الوقف ولفظ الجلالة أول الآية). أُضيفت ١٤ آية قصيرة خارج جزء عمّ إلى البنك (`EXTRA_AYAHS`) لأمثلة المثلين والمتجانسين والمتقاربين. أبيات التحفة (٣٠–٣٣، ٤١، ٤٥–٤٧) طوبقت مع `docs/تحفة الاطفال.pdf`؛ بيتا الجزرية في الراء واللام موسومان «قيد المراجعة». (2) **٦ دروس معرفة** (`data/know.js` + `js/know-engine.js`، أسئلة بقواعد ثابتة): آداب التلاوة، سور القرآن وترتيبها، كيف أجد الآية (في محطة المصحف)، مخارج الحروف وصفاتها (محطة جديدة)، الوقف على أواخر الكلمات (طريقة الوقف تُحسب من رسم آخر كلمة في الآية). (3) **مراجعة المحطة** `#/review/<stage>` (`js/review.js`): خريطة ذهنية بعلامة ✓ على المتقن، وخلاصة كل درس، وورقة عمل للطباعة. (4) دروس مصوّرة لكل الجديد + ٢٣ رسمًا (`js/art.js`)، وأيقونات المحطات الجديدة. الفحوص: `verify.mjs` (٨٢ مثالًا، ٤٢ درسًا مصوّرًا، دروس المعرفة)، `games.test` (10675 سؤالًا)، `mushaf.test`، `know.test` (5400 سؤال + أوراق العمل)، `e2e` (2601 فحصًا). يحتاج مراجعة المعلم: بيتا الجزرية، صياغة الآداب، تبسيط المخارج والصفات. |
 | 2026-11-02 | **ركن التجويد: «الدرس المصوَّر» للأطفال في الدروس الخمسة والعشرين** (`APP_VERSION 1.0.71` · `CACHE_NAME v60`). خطوة «تعلّم» في كل درس صارت حكاية بشرائح (`tajweed/challenge/js/story.js`): غلاف بالأهداف ← شرائح (حكاية «حكيم» بكلمات الأطفال، رسم، صور حقيقية، آيات بالحرف ملوَّنًا وصوت المنشاوي، سؤال سريع، «فكرة للمعلم») ← «ماذا تعلّمنا؟» مع رسالة جاهزة لولي الأمر و«ابدأ التدريب». وضعان: «عرض الحصة» (شريحة شريحة، أسهم لوحة المفاتيح) و«تصفّح الدرس». المحتوى في `data/stories.js`: دروس «تعرّف على مصحفك» العشرة مكتوبة كاملة، ودروس الأحكام الخمسة عشر تُبنى من محتوى `data/rules.js` الموثَّق + حكاية ورسم وصور مخارج من «التجويد المصوّر» وسؤال حروف (`ruleStory`). ٣٤ رسمًا جديدًا في `js/art.js` (برموز ألوان الركن، داكن/فاتح)، والتنسيق في `css/story.css`. صور الكتاب وشرائح عرض القلقلة نُسخت مطابقة إلى `tajweed/challenge/assets/book|deck` (الركن لا يحمّل ملفات المنصة وقت التشغيل). **تصحيح علمي:** السكون في المصحف «رأس خاء صغيرة بلا نقطة» لا «رأس حاء» (`data/mushaf.js` و`core/i18nMushaf.js`). صوت الركن صار المنشاوي (`js/audio.js`). الفحوص: `tools/verify.mjs` يفحص الدروس المصوَّرة (لغتان، إحالات الآيات والعلامات والصور، لا نص قرآني يدوي، الصور مطابقة لأصلها) و`tests/e2e.mjs` يمرّ على كل شرائح الدروس الـ٢٥ (1616 فحصًا ناجحًا). يحتاج مراجعة المعلم: صياغات المخارج المبسَّطة، ومستويات القلقلة الثلاثة (من عرضه)، وتشغيل الصوت على جهاز حقيقي. معاينات مرتبطة: `previews/tajweed-lesson-showcase.html` و`previews/tajweed-corner-redesign.html` (إعادة ترتيب رئيسية الركن — لم تُطبَّق بعد). |
 | 2026-11-02 | **إعادة ترتيب ركن «طلابي»** (`APP_VERSION 1.0.69`). `student/my-students.html` صار محورًا واحدًا: بطاقة «المطلوب الآن» + شريط الأرقام + ثلاثة تبويبات (الطلاب · هذا الشهر · الحصص والحضور)، وعلى الشاشات العريضة (≥900px) عمودان (تجاوز `max-width:700px !important` في adults.css لهذه الشاشة فقط). **دُمج «السجل العام»** (`all-students.html` حُذف) في تبويب «الطلاب»: بطاقة لكل طالب بزر «✏ تعديل» ظاهر بجوار الاسم، و⋯ للإخفاء/الحذف، ونافذتا الإضافة والتعديل داخل الشاشة نفسها؛ `loadAllStudentsScreen()` تفتح «طلابي» على هذا التبويب. «هذا الشهر»: خطوتان (الحفظ ثم التقارير) بعدّاد تقدّم. «الحصص والحضور» (`components/scheduleManager.js` → `renderScheduleTab`): اسم كامل لكل طالب، وبالضغط تنزل قائمة الأيام ومدة الحصة **٣٠/٤٥/٦٠ فقط** (مدة قديمة مخزنة تبقى ظاهرة) بحفظ تلقائي بلا زر؛ نفس القائمة في ملف الطالب (`studentSchedule.js`). كل الألوان برموز `--dh-*` (داكن/فاتح)، ومفاتيح i18n عربية/إنجليزية (`ms_tab_*`, `ms_now_*`, `ms_step*`, `ms_sched_*`…)، والجولة الإرشادية صارت `my_students2`. اختبار جديد: `tests/students-corner.e2e.mjs` (27 فحصًا). المعاينة المعتمدة: `previews/students-corner-redesign.html`. |
